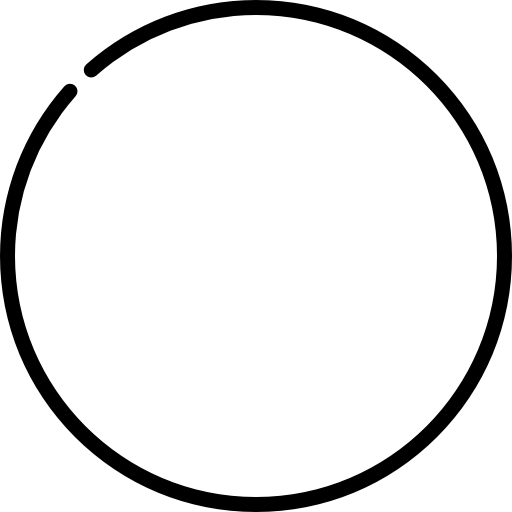
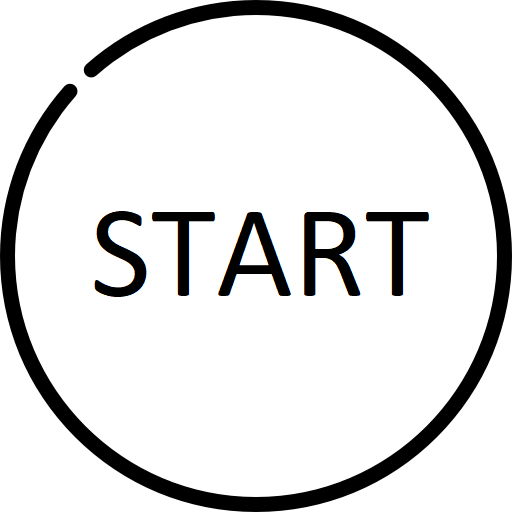
Upload Homework5 - without JS

Changed region(s): [[0.4062, 0.4062, 0.8438, 0.5938], [0.1875, 0.4062, 0.4375, 0.5938]]

diff --git a/HW5/hw5.html b/HW5/hw5.html
@@ -12,7 +12,7 @@
                     <td colspan="2" rowspan="2"> &nbsp;&nbsp;&nbsp;&nbsp;&nbsp;  &nbsp;&nbsp;&nbsp;&nbsp;&nbsp;</td>
                     <td><img src="circle.PNG" /> </td>
                     <td><img src="circle.PNG" /> </td>
-                    <td><img src="circle.PNG" /> </td>
+                    <td><img src="Start.png" /> </td>
                     <td colspan="2" rowspan="2"> &nbsp;&nbsp;&nbsp;&nbsp;&nbsp;  &nbsp;&nbsp;&nbsp;&nbsp;&nbsp;</td>
                     <td style="background-color: blue;"> &nbsp;&nbsp;&nbsp;&nbsp;&nbsp;</td>
                     <td style="background-color: blue;"> &nbsp;&nbsp;&nbsp;&nbsp;&nbsp;</td>
@@ -39,7 +39,7 @@
                     <td><img src="circle.PNG" /> </td>
                 </tr>
                 <tr>
-                    <td><img src="circle.PNG" /> </td>
+                    <td><img src="Start.png" /> </td>
                     <td><img src="circle.PNG" /> </td>
                     <td><img src="circle.PNG" /> </td>
                     <td><img src="circle.PNG" /> </td>
@@ -75,7 +75,7 @@
                     <td><img src="circle.PNG" /> </td>
                     <td><img src="circle.PNG" /> </td>
                     <td><img src="circle.PNG" /> </td>
-                    <td><img src="circle.PNG" /> </td>
+                    <td><img src="Start.png" /> </td>
                 </tr>
                 <tr>
                     <td colspan="4" rowspan="2"> &nbsp;&nbsp;&nbsp;&nbsp;&nbsp;  &nbsp;&nbsp;&nbsp;&nbsp;&nbsp;</td>
@@ -103,7 +103,7 @@
                 <tr>
                     <td style="background-color: yellow;"> &nbsp;&nbsp;&nbsp;&nbsp;&nbsp;</td>
                     <td style="background-color: yellow;"> &nbsp;&nbsp;&nbsp;&nbsp;&nbsp;</td>
-                    <td><img src="circle.PNG" /> </td>
+                    <td><img src="Start.png" /> </td>
                     <td><img src="circle.PNG" /> </td>
                     <td><img src="circle.PNG" /> </td>
                     <td style="background-color: green;"> &nbsp;&nbsp;&nbsp;&nbsp;&nbsp;</td>
